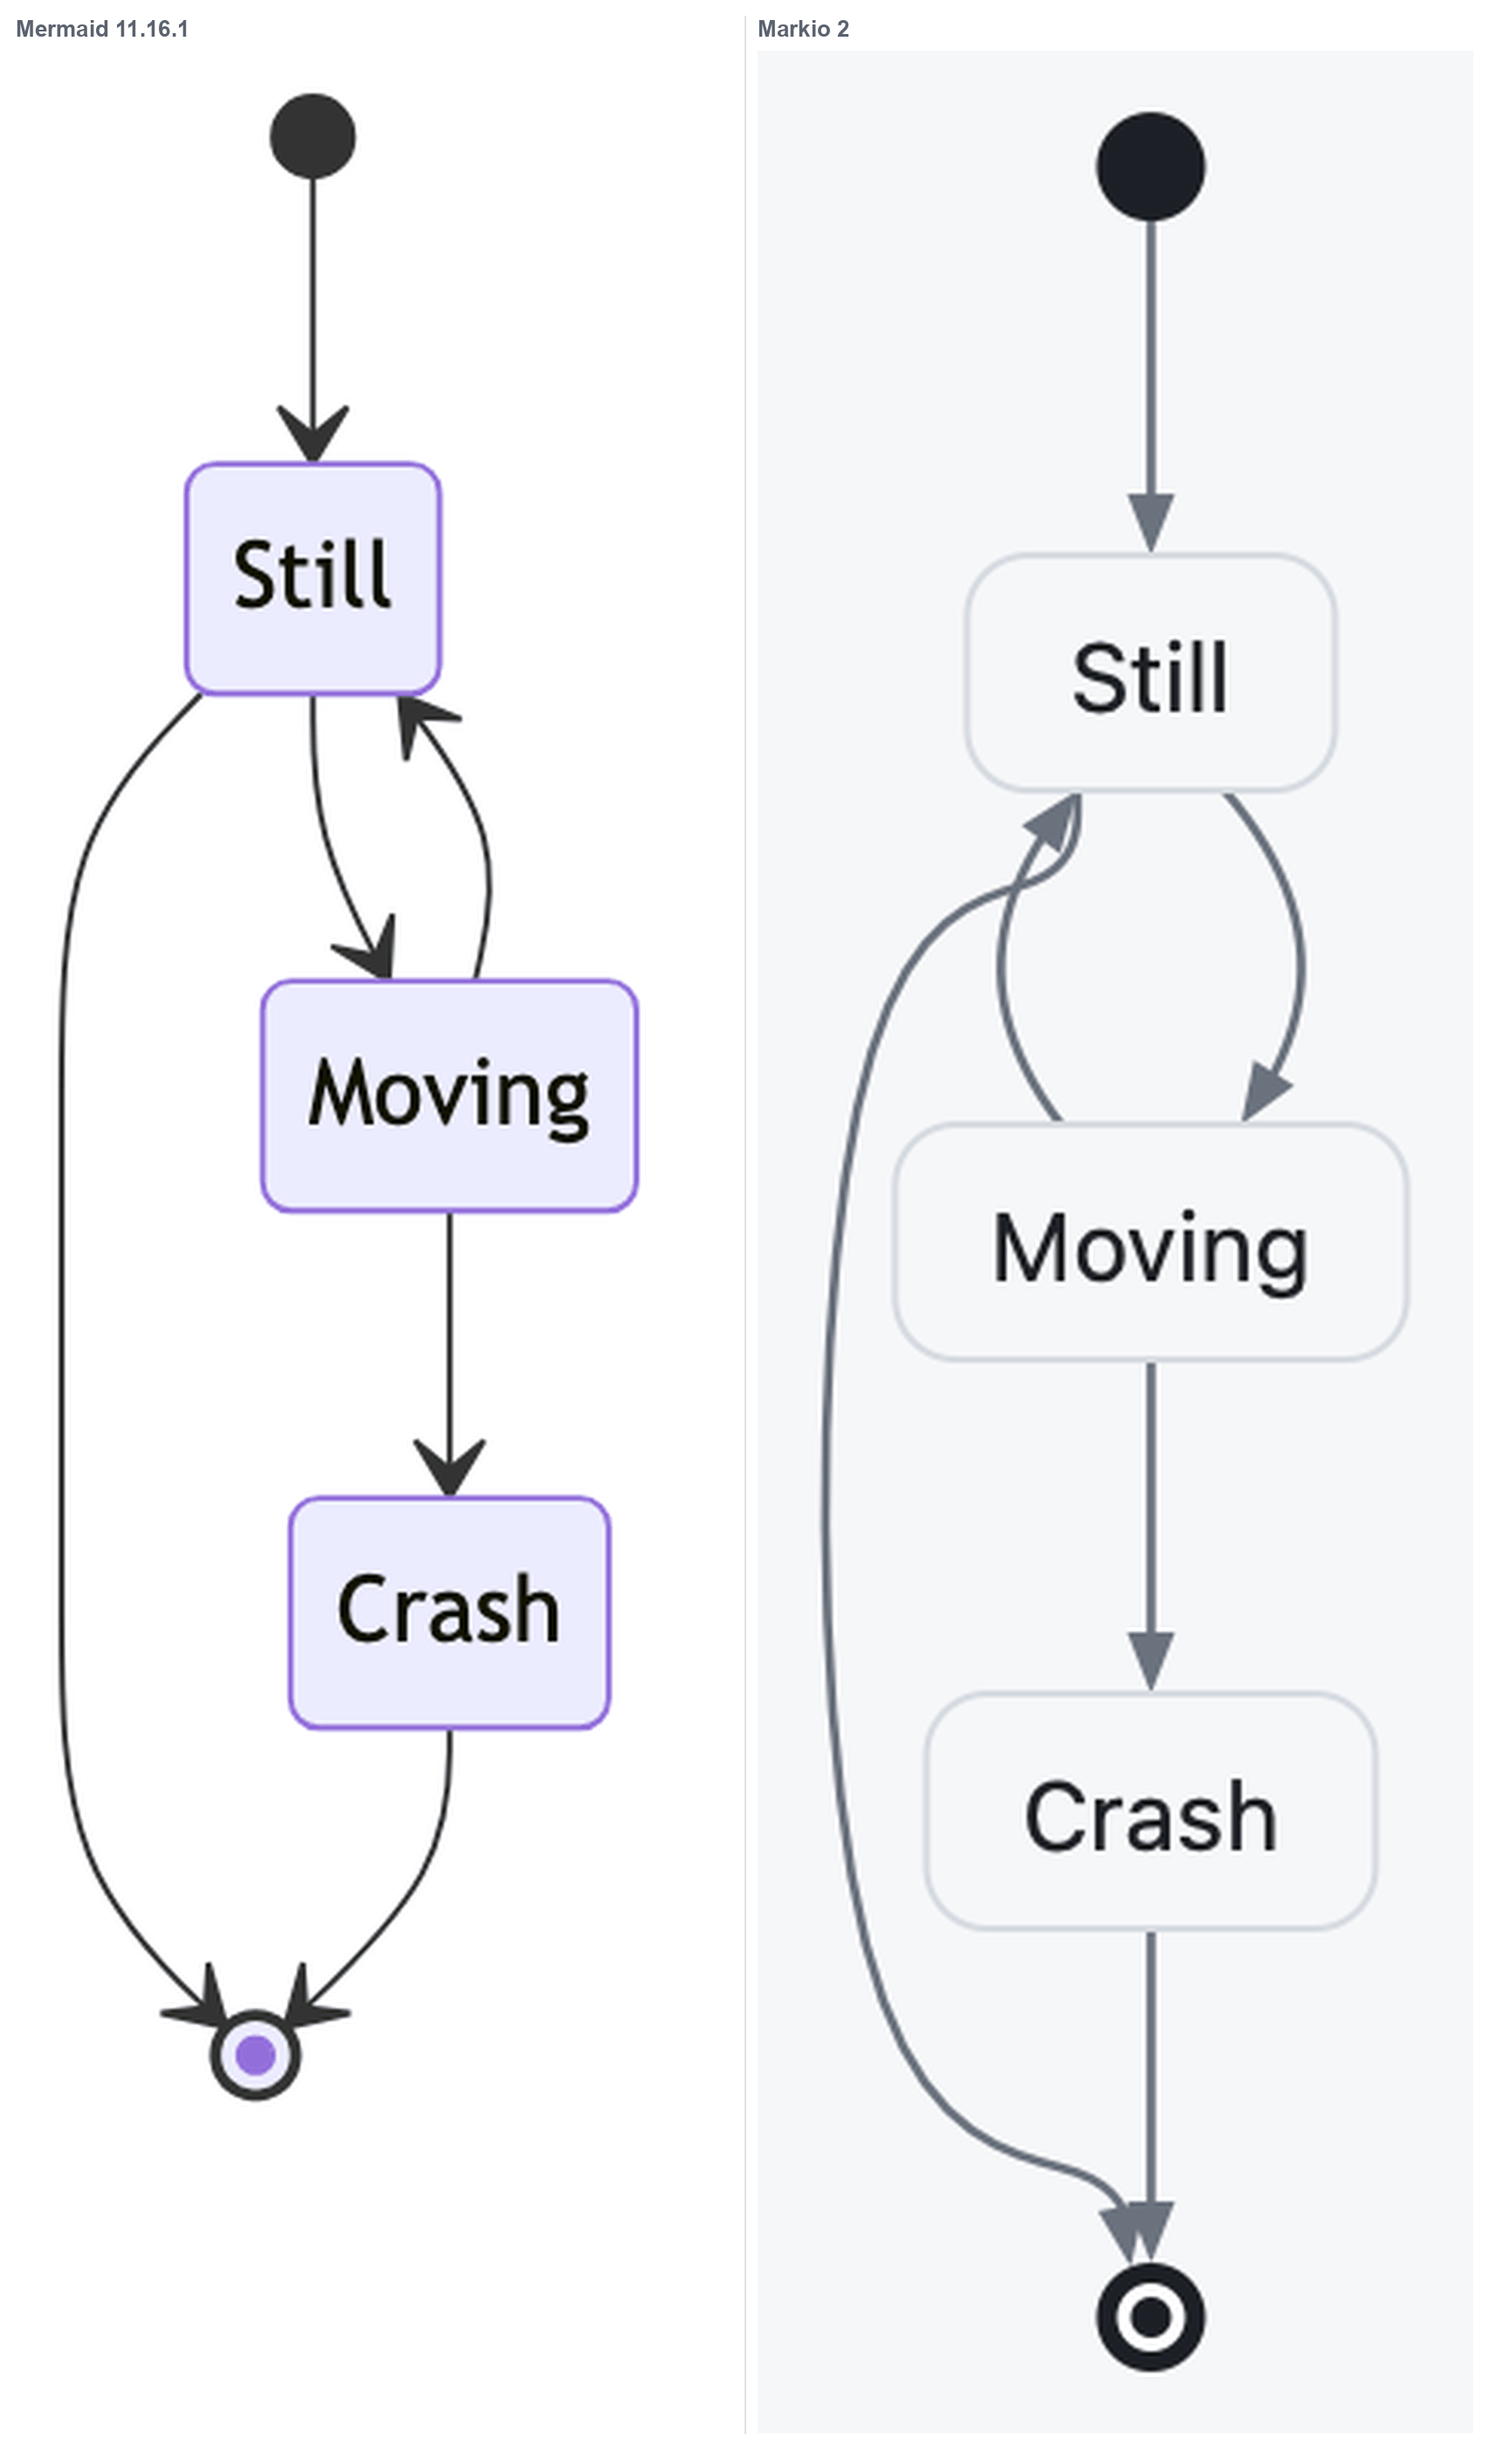
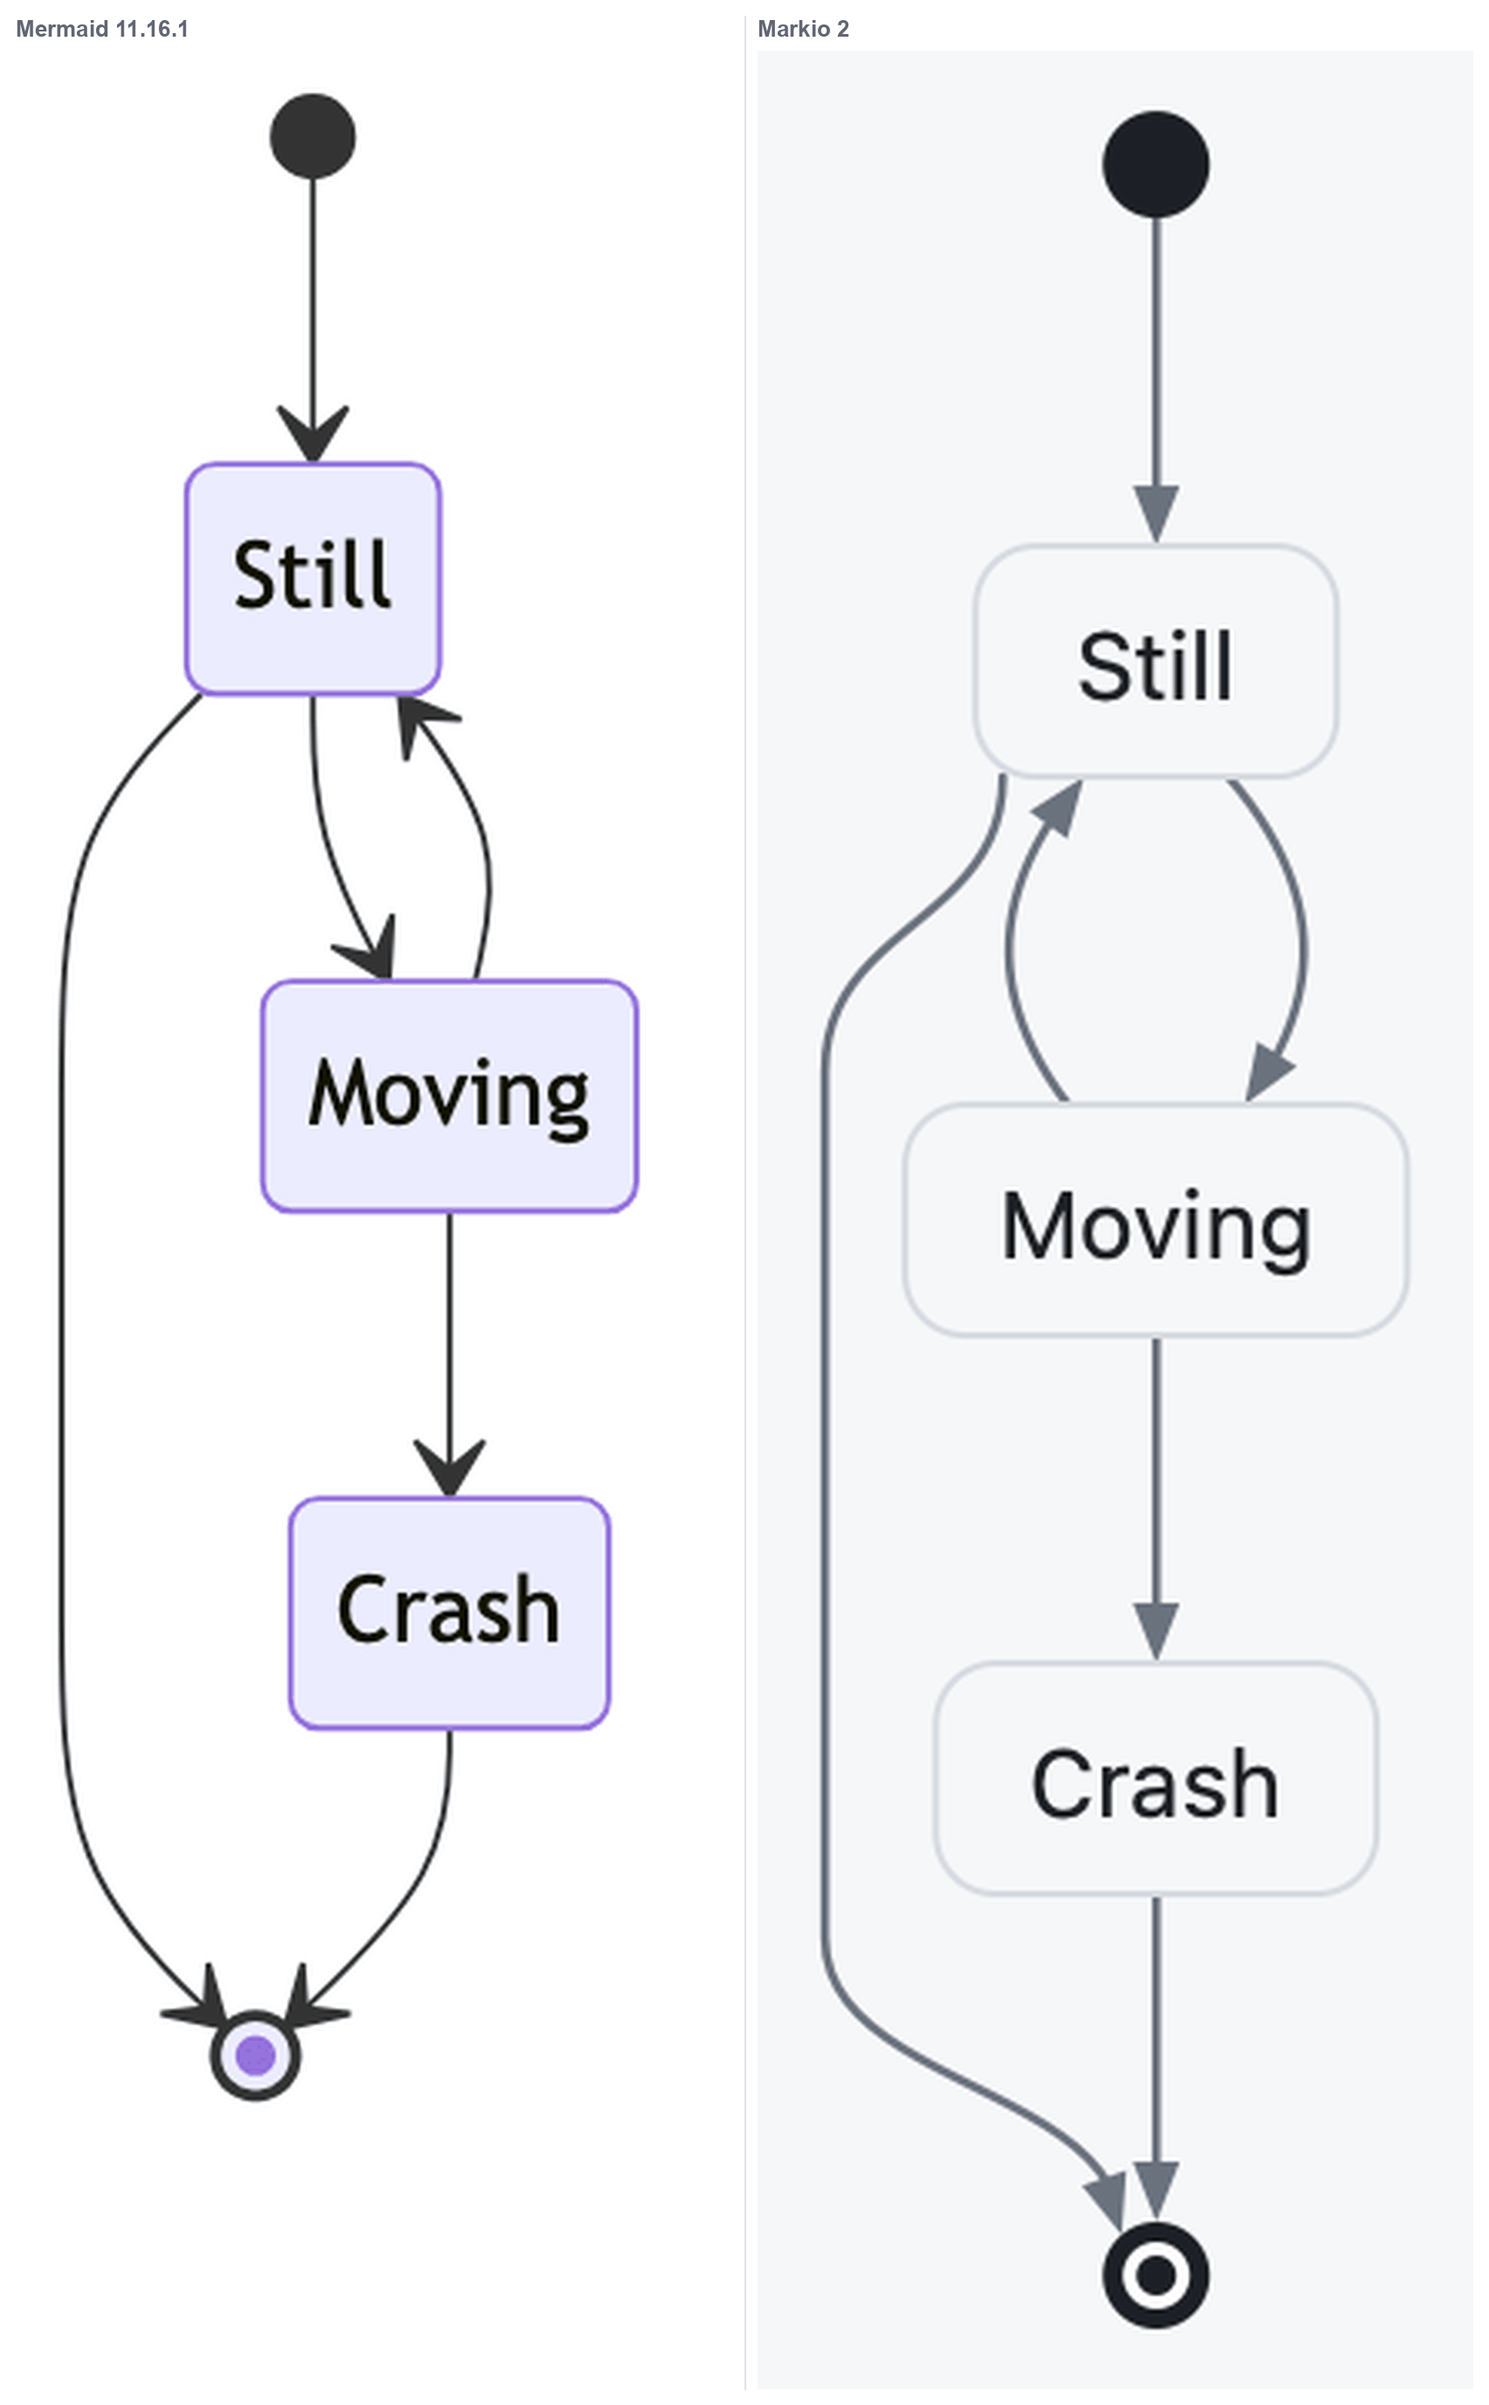
fix: sweep a line into its lane instead of turning it on the spot
A line that goes round a box turned twice at right angles, once as it left and
once as it arrived, and each turn was rounded over sixteen points — so what the
reader followed was three lines laid against each other rather than one.

The turns are now sweeps: a cubic with both handles half way along it, spread
over the gap between two ranks at the least however little the line has to move
sideways, and over no more than a share of the run so it never eats the lane it
is joining.

The exit was making the sweep worse. A line joining two boxes directly is held
three tenths of a side in from the corners, without which the point slides into
one; a line with a lane needs no such holding, because the lane already stands
beside the box, and holding it in only made the line swing back out to reach the
lane. It is now kept off the corner itself and no further, which is what Mermaid
draws — its exit is simply where the routed line crosses the border.

diff --git a/Sources/MarkioRender/MermaidLayout.swift b/Sources/MarkioRender/MermaidLayout.swift
@@ -4783,21 +4783,28 @@ enum MermaidLayout {
     private static func loopReach(_ metrics: Metrics) -> CGFloat { 26 * metrics.scale }
 
     /// Where a line bound for a lane leaves its box: by the side facing the box
-    /// at the other end, at the point on that side nearest the lane, and never
-    /// nearer a corner than any other line is allowed to come.
+    /// at the other end, at the point on that side nearest the lane.
+    ///
+    /// A line joining two boxes directly is held well in from the corners,
+    /// because without that the point slides into one. A line with a lane needs
+    /// no such holding: the lane is beside the box already, so the nearest point
+    /// on the side is the one the reader would draw, and holding it in only
+    /// makes the line swing back out to reach the lane. It is kept off the
+    /// corner itself and no further.
     private static func leaves(
         _ box: CGRect, along lane: (vertical: Bool, at: CGFloat), towards other: CGRect
     ) -> CGPoint {
+        let clear = corner / 4
         if lane.vertical {
             let below = other.midY > box.midY
             return CGPoint(
-                x: min(max(lane.at, box.minX + box.width * corner), box.maxX - box.width * corner),
+                x: min(max(lane.at, box.minX + box.width * clear), box.maxX - box.width * clear),
                 y: below ? box.maxY : box.minY)
         }
         let right = other.midX > box.midX
         return CGPoint(
             x: right ? box.maxX : box.minX,
-            y: min(max(lane.at, box.minY + box.height * corner), box.maxY - box.height * corner))
+            y: min(max(lane.at, box.minY + box.height * clear), box.maxY - box.height * clear))
     }
 
     /// The run of a line from one box to another: where it leaves, how it goes,
@@ -4828,27 +4835,52 @@ enum MermaidLayout {
         // set aside for this line: out of the side facing the way it is going,
         // straight down the lane, and in at the far end.
         if let beside {
-            // Straight out of the side it leaves by, across into the lane, down
-            // the lane, across again, and straight in at the far end. The turns
-            // are rounded off, so what the reader follows is a line that bends
-            // twice rather than five lines laid end to end.
-            let out = leaves(from, along: beside, towards: to)
-            let into = leaves(to, along: beside, towards: from)
-            let step = 16 * metrics.scale
-            let onwards = beside.vertical ? (into.y > out.y ? step : -step) : 0
-            let along = beside.vertical ? 0 : (into.x > out.x ? step : -step)
-            return basis([
-                onOutline(out, of: fromOutline, from: from.center),
-                CGPoint(x: out.x + along, y: out.y + onwards),
-                CGPoint(
-                    x: beside.vertical ? beside.at : out.x + along,
-                    y: beside.vertical ? out.y + onwards : beside.at),
-                CGPoint(
-                    x: beside.vertical ? beside.at : into.x - along,
-                    y: beside.vertical ? into.y - onwards : beside.at),
-                CGPoint(x: into.x - along, y: into.y - onwards),
-                onOutline(into, of: toOutline, from: to.center),
-            ])
+            // Out of the side it leaves by, swept into the lane, straight down
+            // the lane, and swept back out of it to come in square at the far
+            // end. The two sweeps are what the reader follows as one line: an
+            // elbow at either end reads as three lines laid against each other.
+            //
+            // The lane runs one way and the boxes stand across it, so the path
+            // is measured in those two terms and turned back into points at the
+            // end, which spares the whole of it being written twice over.
+            let out = onOutline(
+                leaves(from, along: beside, towards: to), of: fromOutline, from: from.center)
+            let into = onOutline(
+                leaves(to, along: beside, towards: from), of: toOutline, from: to.center)
+            func point(_ along: CGFloat, _ across: CGFloat) -> CGPoint {
+                beside.vertical ? CGPoint(x: across, y: along) : CGPoint(x: along, y: across)
+            }
+            let leaving = beside.vertical ? out.y : out.x
+            let arriving = beside.vertical ? into.y : into.x
+            let sideOut = beside.vertical ? out.x : out.y
+            let sideIn = beside.vertical ? into.x : into.y
+            let run = arriving - leaving
+            let onwards: CGFloat = run >= 0 ? 1 : -1
+            // The bend is spread over the gap between two ranks at the least,
+            // however little the line has to move sideways: a bend as short as
+            // that movement turns hard and then runs straight for the rest of
+            // the way, which is the kink a reader sees rather than a curve.
+            // Nor is it spread over more than a share of the run, or it eats
+            // the lane it is joining. Both of its handles stand half way along
+            // it, which is what makes the bend even from end to end.
+            func sweep(_ side: CGFloat) -> CGFloat {
+                min(max(abs(beside.at - side), metrics.rankGap), abs(run) * 0.4)
+            }
+            let first = leaving + onwards * sweep(sideOut)
+            let last = arriving - onwards * sweep(sideIn)
+            var path = samples(
+                from: point(leaving, sideOut),
+                out: point(leaving + onwards * sweep(sideOut) / 2, sideOut),
+                in: point(first - onwards * sweep(sideOut) / 2, beside.at),
+                to: point(first, beside.at))
+            path.append(point(last, beside.at))
+            path += samples(
+                from: point(last, beside.at),
+                out: point(last + onwards * sweep(sideIn) / 2, beside.at),
+                in: point(arriving - onwards * sweep(sideIn) / 2, sideIn),
+                to: point(arriving, sideIn)
+            ).dropFirst()
+            return path
         }
         // An edge that skips a rank would otherwise run straight through
         // whatever stands between, which reads as an edge to that box; and two
